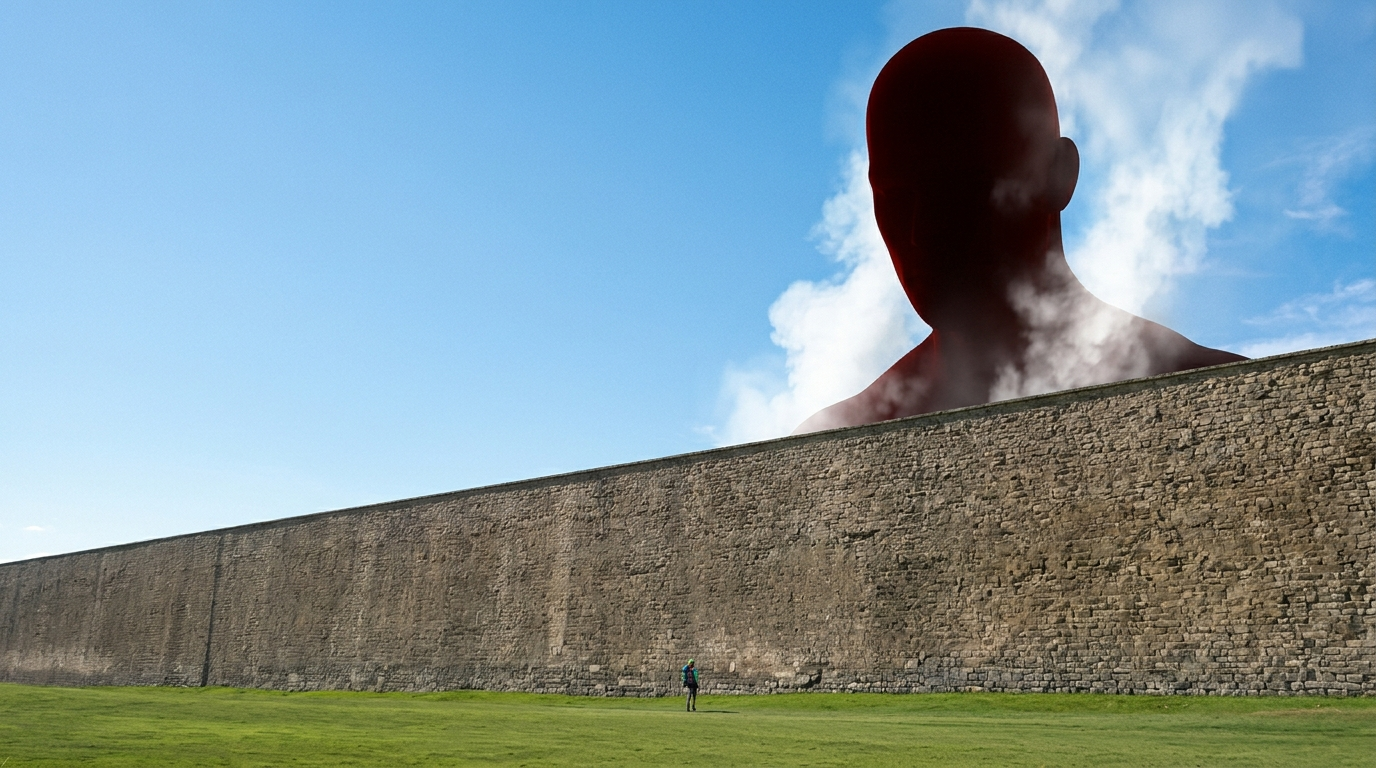
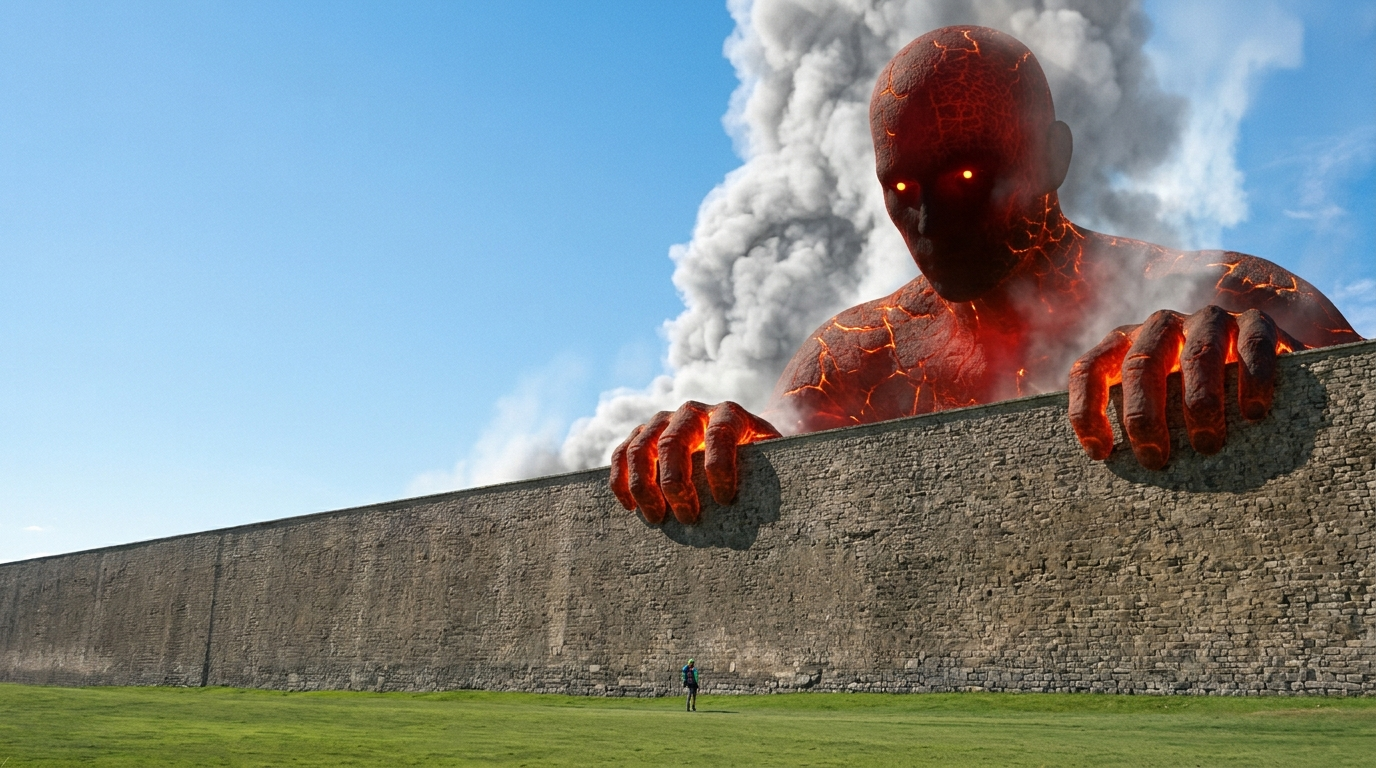
naze: 進撃のサムネの巨人を、湯気の中で赤く光り壁に手をかける絵に

Changed region(s): [[0.2812, 0.0, 1.0, 0.7188]]

diff --git a/projects/naze/episodes/shingeki/thumb.py b/projects/naze/episodes/shingeki/thumb.py
@@ -1,5 +1,5 @@
 """進撃の巨人の本編のサムネイル(1280×720)。作品の絵は使わない。下地は Gemini で作った絵(assets/thumb_gemini.jpg: 高い石の壁の上から、
-湯気をまとった巨人の影が頭と肩を出す。作品のデザインには似せていない)。
+湯気の中から溶岩のように赤く光る巨人が頭を出し、両手で壁の縁をつかむ。作品の皮膚の無いデザインには似せていない)。
 クリックしたくなる形(2026-10-29 ユーザー指示「もう少しこだわって」): 字は少なく、驚きを 1 つだけ特大で、続きが気になる一言を添える。
 箱や番号は付けず、字を直接のせる。python episodes/shingeki/thumb.py [案] で out/shingeki/thumb_long[_案].jpg"""
 import sys
